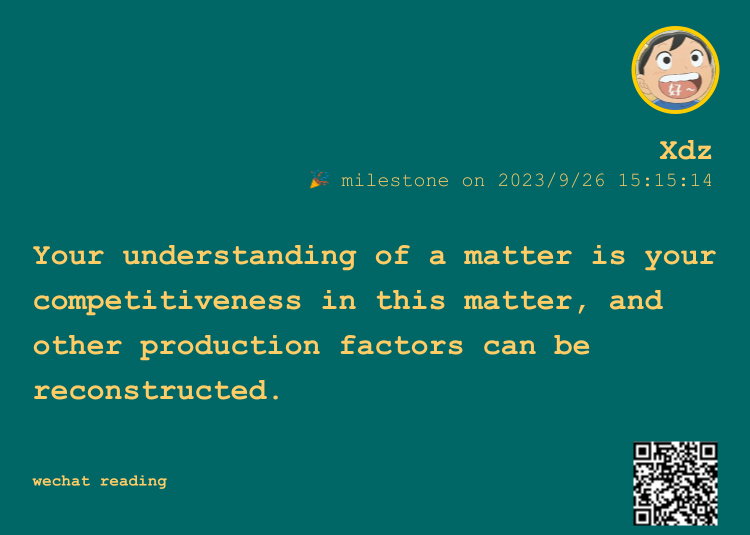
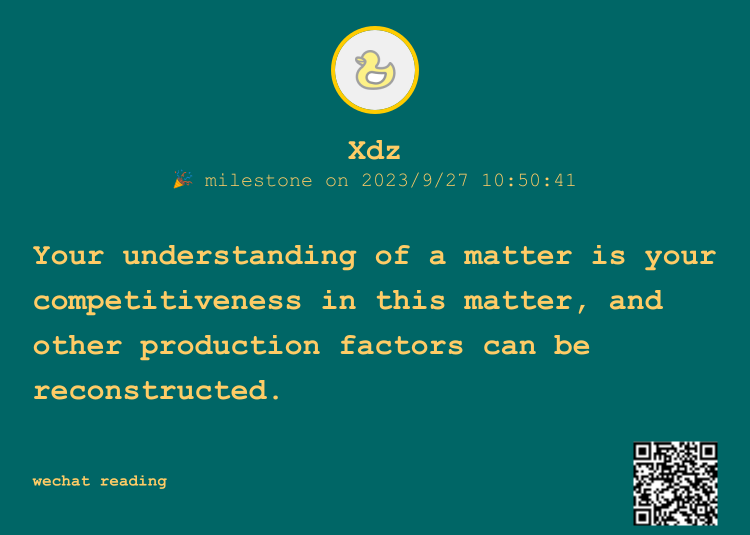
refactor(config): reorganize the structure

diff --git a/src/config.js b/src/config.js
@@ -2,11 +2,9 @@ const { colorTip } = require('./util')
 const isImageUrl = require('is-image-url')
 
 const defaultConfigName = 'anyphoto.config.js'
-const defaultTheme = 'classic'
 const defaultAvatar = 'https://m0-file2.bybutter.com/head-image/21e8a53c1e9d514eff1099f43465721b.jpg'
 const defaultAuthor = 'AnyPhoto'
 const defaultOutput = 'anyphoto'
-const validTheme = ['classic', 'fashion']
 
 const optionsCpu = {
   author: {
@@ -21,14 +19,6 @@ const optionsCpu = {
       return isValidAvatar ? avatar : defaultAvatar
     }
   },
-  theme: {
-    validate(theme) {
-      const isValidTheme = validTheme.includes(theme)
-      !isValidTheme &&
-        colorTip('Tips: 目前仅支持经典和流行两种主题，由于你提供的主题不是一个正确的预设，将会采用默认值', 'yellow')
-      return isValidTheme ? theme : validTheme[0]
-    }
-  },
   output: {
     validate(output) {
       // TODO:这里应该允许用户直接指定在某个地方生成图片
@@ -40,19 +30,19 @@ const optionsCpu = {
 
 module.exports = {
   defaultConfigName,
-  defaultTheme,
   defaultAvatar,
   defaultAuthor,
   defaultOutput,
   optionsCpu,
-  validTheme,
   locale: 'english',
   initConfig: () => {
     return `const anyPhotoConfig = {
   defaultOutput: '${defaultOutput}',
-  defaultTheme: '${defaultTheme}',
   defaultAvatar: '${defaultAvatar}',
-  defaultAuthor: '${defaultAuthor}'
+  defaultAuthor: '${defaultAuthor}',
+  canvasSetting: {
+    width: 750
+  }
 }
 module.exports = anyPhotoConfig
 `

diff --git a/src/draw.js b/src/draw.js
@@ -52,6 +52,7 @@ class Drawer {
     // header
     this.header = header
     this.author = this.anyPhotoConfig.author
+    this.avatar = this.anyPhotoConfig.avatar
     this.headerHeight = 0
 
     // from
@@ -122,7 +123,7 @@ class Drawer {
   // todo应该需要想个办法，去智能的判断字体的宽度，是否大于canvasWidth-2*x
   get calculateAuthorWidth() {
     const { headerAuthorFontColor, headerAuthorFontSize, headerAuthorFontWeight, headAuthorFontSizeIndex } = this.header
-    const { author } = this.anyPhotoConfig
+    const { author } = this
     const { ctx } = this
     ctx.save()
     ctx.fillStyle = headerAuthorFontColor
@@ -243,10 +244,8 @@ class Drawer {
     })
     const { headerAvatarBorderWidth, headerAvatarBorderColor, avatarRadius, avatarCenterPointX, avatarCenterPointY } =
       this.headerCpu.calculateApplyAvatar
-    const { ctx } = this
-    // 绘制头像图片
-    // https://aliossupload.newarray.vip/WechatIMG364.jpg
-    const avatar = await loadImage('/Users/weirui05/Desktop/1a376f96e85b4edb6011a91f9.png')
+    const { ctx, avatar: avatarSrc } = this
+    const avatar = await loadImage(avatarSrc)
     ctx.save()
     ctx.beginPath()
     ctx.arc(avatarCenterPointX, avatarCenterPointY, avatarRadius, 0, Math.PI * 2)

diff --git a/src/cmd/generate.js b/src/cmd/generate.js
@@ -1,13 +1,6 @@
 const path = require('path')
 const fs = require('fs')
-const {
-  defaultAuthor,
-  defaultTheme,
-  defaultAvatar,
-  defaultOutput,
-  defaultConfigName,
-  optionsCpu
-} = require('../config')
+const { defaultAuthor, defaultAvatar, defaultOutput, defaultConfigName, optionsCpu } = require('../config')
 const { defaultCanvasSetting } = require('../setting')
 const draw = require('../draw')
 
@@ -50,8 +43,6 @@ const getAnyPhotoConfigByKey = ({ key, options }) => {
   const userConfigByKey = getUserAnyPhotoConfigByKey({ defaultKey })
   if (userConfigByKey) return userConfigByKey
   switch (defaultKey) {
-    case 'defaultTheme':
-      return defaultTheme
     case 'defaultAuthor':
       return defaultAuthor
     case 'defaultAvatar':
@@ -63,14 +54,12 @@ const getAnyPhotoConfigByKey = ({ key, options }) => {
   }
 }
 const getAnyPhotoConfig = ({ options }) => {
-  const theme = getAnyPhotoConfigByKey({ key: 'theme', options })
   const avatar = getAnyPhotoConfigByKey({ key: 'avatar', options })
   const author = getAnyPhotoConfigByKey({ key: 'author', options })
   const output = getAnyPhotoConfigByKey({ key: 'output', options })
 
   return {
     ...handelValidAnyPhotoConfig({
-      theme,
       avatar,
       author,
       output

diff --git a/bin/index.js b/bin/index.js
@@ -15,20 +15,20 @@ program.name(pkg.name).description(pkg.description).version(pkg.version)
 program
   .command('init')
   .argument('[configDirname]', 'The path to the configuration file, defaults to the current project root directory')
+  .option('--theme <number>', 'The theme of the photo you want to use', 1)
   .description('Initialize configuration file')
-  .action((configDirname = process.cwd()) => {
-    init({ configDirname })
+  .action((configDirname = process.cwd(), { theme }) => {
+    init({ configDirname, theme })
   })
 
 program
   .command('generate')
   .description('Generate photo by inspiration')
   .argument('<content>', 'Any content you like')
-  .option('--theme <type>', 'The theme of the photo. Optional values include classic and fashion')
   .option('--avatar <url>', 'The avatar of the photo')
   .option('--author <name>', 'The author name of the photo')
   .option('--output <folder name>', 'The place where the photo be generated')
-  .action((content, options, command) => {
+  .action((content, options) => {
     generate({
       content,
       options

diff --git a/src/cmd/init.js b/src/cmd/init.js
@@ -2,8 +2,8 @@ const path = require('path')
 const fs = require('fs')
 const { defaultConfigName, initConfig } = require('../config')
 const { generateOra, sleep, color } = require('../util')
-// TODO 看看能不能引入什么包实现语言版本自然切换
-const init = async ({ configDirname }) => {
+const init = async ({ configDirname, theme }) => {
+  console.log(theme)
   const configPath = path.join(configDirname, defaultConfigName)
   const initOra = generateOra({
     spinner: 'dots',
@@ -24,7 +24,6 @@ const init = async ({ configDirname }) => {
       initOra.fail(err.message)
       throw err
     }
-    // anyphoto generate <word>
     initOra.succeed(
       `[ ${color(defaultConfigName, 'green')} ] generated ${color('successful', 'green')} ! \nnow you can ${color(
         'edit',
@@ -36,7 +35,6 @@ const init = async ({ configDirname }) => {
       )}`
     )
   })
-  return 'init'
 }
 
 module.exports = init

diff --git a/src/setting.js b/src/setting.js
@@ -1,8 +1,8 @@
 const defaultCanvasSetting = {
-  width: 750, // 通用的
+  width: 750,
   englishFonts: ['Arial', 'Times New Roman', 'Verdana', 'Tahoma', 'Courier New', 'Helvetica'],
-  backgroundColor: '#006666', // #1b1c1f
-  color: '#FFCC66', // #FFFFCC
+  backgroundColor: '#006666',
+  color: '#FFCC66',
   fontWeight: 'bold',
   textBaseline: 'top',
   textAlign: 'start',
@@ -18,7 +18,7 @@ const defaultCanvasSetting = {
     headerPaddingBottom: 30,
     // avatar
     headerAvatarSize: 80,
-    headerAvatarBorderWidth: 4, // 应该要最大10，否则影响布局
+    headerAvatarBorderWidth: 4,
     headerAvatarBorderColor: '#FFCC00',
     headerAvatarMarginBottom: 20,
 

diff --git a/anyphoto.config.js b/anyphoto.config.js
@@ -1,0 +1,9 @@
+const anyPhotoConfig = {
+  defaultOutput: 'anyphoto',
+  defaultAvatar: 'https://m0-file2.bybutter.com/head-image/21e8a53c1e9d514eff1099f43465721b.jpg',
+  defaultAuthor: 'AnyPhoto',
+  canvasSetting: {
+    width: 750
+  }
+}
+module.exports = anyPhotoConfig
